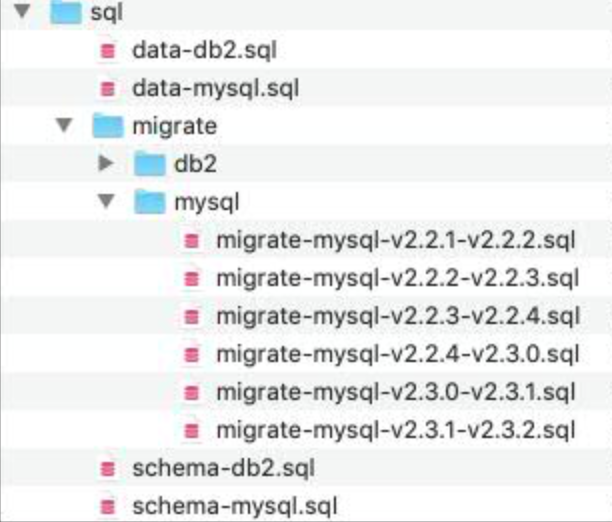
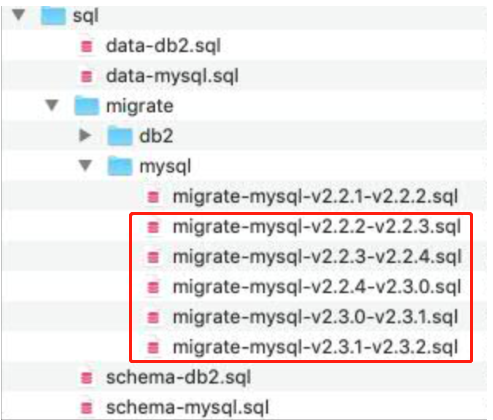
Update migrate docs

diff --git a/_posts/2020-09-29-references-migrate-ida-from-v2.7.x-to-v21.0.0.md b/_posts/2020-09-29-references-migrate-ida-from-v2.7.x-to-v21.0.0.md
@@ -12,9 +12,9 @@ order: 10
 
 **Important:** Please backup your database before migration!
 
-## 1.1 Edit [IDA_HOME]/conf/**ida.properties** under **conf** folder. 
+### 1.1 Edit [IDA_HOME]/conf/**ida.properties** under **conf** folder. 
 
-This properties file contains three main sections. Please set spring.datasource.driver-class-name, spring.datasource.url, spring.datasource.username, spring.datasource.password field. If you want to encode your database password. Please refer to [Repacking IDA Application][1].
+This properties file contains three main sections. Please set **spring.datasource.driver-class-name**, **spring.datasource.url**, **spring.datasource.username**, **spring.datasource.password** field. If you want to encode your database password. Please refer to [Repacking IDA Application][1].
 
 **Important:** Please comment spring.datasource.jndi-name if you do not use a JNDI datasource.
 
@@ -34,112 +34,121 @@ This properties file contains three main sections. Please set spring.datasource.
 
 *  **jasypt.encryptor.password** : Jasypt secret key for Encrypt datasource passwords
 
-## 1.2 Repacking ida-web.war with configuration
+### 1.2 Repacking ida-web.war with configuration
 
-The purpose of repackage  is to update your application-product.yaml in the war to make sure it loads the recent configuration.Once all the properties in [IDA_HOME]/conf/ida.properties file have been updated, you can then re-package the [IDA_HOME]/build/**ida-web.war** file.  
+The purpose of repackage is to update your application-product.yaml in the war to make sure it loads the recent configuration.Once all the properties in [IDA_HOME]/conf/ida.properties file have been updated, you can then re-package the [IDA_HOME]/build/**ida-web.war** file. 
 
-Before running the [IDA_HOME]/**package.bat** or [IDA_HOME]/**package.sh** you will need to set the JAVA_HOME environment variable and make ensure that [JAVA_HOME]/bin is included in the variable.  Once the environment variable is set , you can then execute the package shell command to repackage the **ida-web.war**.
+Before running the [IDA_HOME]/**package.bat** or [IDA_HOME]/**package.sh** you will need to set the JAVA_HOME environment variable and make ensure that [JAVA_HOME]/bin is included in the variable. Once the environment variable is set , you can then execute the package shell command to repackage the **ida-web.war**.
 
-## 1.3 Stop your running IDA Application
+### 1.3 Stop your running IDA Application
 
 For example:
 ```
 ./server stop SERVER_NAME
 ```
 
-## 1.4 Execute migrate-\<DATABASE_TYPE\>-v2.7.x-v21.0.0.sql
+### 1.4 Execute migrate-\<DATABASE_TYPE\>-v2.7.x-v21.0.0.sql
 **Notes:** Please execute ```call sysproc.admin_cmd('reorg table <TABLE_NAME>');``` after altering a table in DB2 database.
 
-## 1.5 Add ```<httpSession cookieSameSite="None"/>``` to server.xml
+### 1.5 Add ```<httpSession cookieSameSite="None"/>``` to server.xml
 
-## 1.6 Replace ida-web.war and Restart your server.
+### 1.6 Replace ida-web.war and Restart your server.
 **Notes:** Please refer the doc [references-migrating-and-updating-your-application][3].
 
-## 1.7 Migrate the values form your old conf/ida.properties to 'Settings' page. The below table lists all the filed need to be migrated:
+### 1.7 Migrate the values from your old conf/ida.properties to 'Settings' page. The below table lists all the filed need to be migrated:
 
-![][General]
+- General Settings: 
+  
+    ![][General]
 
-Settings -> General | conf/ida.properties
---- | ---
-General -> Trace Level | loggerLevel 
-General -> Enable LDAP Authentication | ldap.enable 
-General -> Url | ldap.url 
-General -> User Name | ldap.username 
-General -> Password | ldap.password 
-General -> Base DN | ldap.basedn 
-General -> User Filter | ldap.user.filter 
-General -> Default Role | ldap.default.role 
-General -> User Name Case Insensitive | ldap.username.case-insensitive 
+    Settings -> General | conf/ida.properties
+    --- | ---
+    General -> Trace Level | loggerLevel 
+    General -> Enable LDAP Authentication | ldap.enable 
+    General -> Url | ldap.url 
+    General -> User Name | ldap.username 
+    General -> Password | ldap.password 
+    General -> Base DN | ldap.basedn 
+    General -> User Filter | ldap.user.filter 
+    General -> Default Role | ldap.default.role 
+    General -> User Name Case Insensitive | ldap.username.case-insensitive 
 
-![][Test]
+- Testing Settings: 
+  
+    ![][Test]
 
-Settings -> Test | conf/ida.properties
---- | ---
-Test -> Connection Timeout(seconds) | engine-config.connection-timeout
-Test -> Wait Timeout(seconds) | engine-config.wait-timeout 
-Test -> Default Retry Times | engine-config.default-retry-times 
-Test -> Default Retry Interval(seconds) | engine-config.default-retry-interval
-Test -> Data Path | engine-config.data-dir
-Test -> Enable Test Case History | enable_case_history
-Test -> Max Number of Test Case History | max_case_history
-Test -> Threshold of New Test Case | default_total_case
+    Settings -> Test | conf/ida.properties
+    --- | ---
+    Test -> Connection Timeout(seconds) | engine-config.connection-timeout
+    Test -> Wait Timeout(seconds) | engine-config.wait-timeout 
+    Test -> Default Retry Times | engine-config.default-retry-times 
+    Test -> Default Retry Interval(seconds) | engine-config.default-retry-interval
+    Test -> Data Path | engine-config.data-dir
+    Test -> Enable Test Case History | enable_case_history
+    Test -> Max Number of Test Case History | max_case_history
+    Test -> Threshold of New Test Case | default_total_case
 
-![][Checkstyle]
+- Checkstyle Settings: 
 
-Settings -> Checkstyle | conf/ida.properties
---- | ---
-Checkstyle -> Engine | checkstyle.engine
-Checkstyle -> Decision Server Username | resUser
-Checkstyle -> Decision Server Password | resPassword
-Checkstyle -> Decision Server URL | resUrl
-Checkstyle -> Decision Server Port | resPort
-Checkstyle -> Rest Url | restUrl
+    ![][Checkstyle]
 
-![][Pipeline]
+    Settings -> Checkstyle | conf/ida.properties
+    --- | ---
+    Checkstyle -> Engine | checkstyle.engine
+    Checkstyle -> Decision Server Username | resUser
+    Checkstyle -> Decision Server Password | resPassword
+    Checkstyle -> Decision Server URL | resUrl
+    Checkstyle -> Decision Server Port | resPort
+    Checkstyle -> Rest Url | restUrl
 
-Settings -> Pipeline | conf/ida.properties
---- | ---
-Pipeline -> Installation Package Remote Dir | engine-config.installation-package-remote-dir
-Pipeline -> Host | smtp.host
-Pipeline -> Port | smtp.port
-Pipeline -> Sender Email | email.from
-Pipeline -> Deployment Timeout(seconds) | deployment.timeout
-Pipeline -> Deployment Check Interval(seconds) | deployment.interval
-Pipeline -> Interval for Trigger by New Snapshot(seconds) | pipeline.snapshot.trigger.interval
+- Pipeline Settings: 
+
+    ![][Pipeline]
+
+    Settings -> Pipeline | conf/ida.properties
+    --- | ---
+    Pipeline -> Installation Package Remote Dir | engine-config.installation-package-remote-dir
+    Pipeline -> Host | smtp.host
+    Pipeline -> Port | smtp.port
+    Pipeline -> Sender Email | email.from
+    Pipeline -> Deployment Timeout(seconds) | deployment.timeout
+    Pipeline -> Deployment Check Interval(seconds) | deployment.interval
+    Pipeline -> Interval for Trigger by New Snapshot(seconds) | pipeline.snapshot.trigger.interval
 
 
-## 1.7 Restart IDA server to make your changes effective.
+### 1.7 Restart IDA server
+
+Restart IDA server to make your changes effective.
+
+
 
 # 2. Migrating IDA with a JNDI datasource connection
 
 **Important:** Please backup your database before migration!
 
-## 2.1 Please refer to section 1.1 to edit [IDA_HOME]/conf/**ida.properties** under **conf** folder.
+### 2.1 Please refer to section 1.1 to edit [IDA_HOME]/conf/**ida.properties** under **conf** folder.
 
 **Notes:** Please comment spring.datasource.driver-class-name, spring.datasource.url, spring.datasource.username, spring.datasource.password and jasypt.encryptor.password fileds.
 
-## 2.2 Please refer to 1.2 to repack ida-web.war
+### 2.2 Please refer to 1.2 to repack ida-web.war
 **Notes:** Please refer the doc [references-migrating-and-updating-your-application][3].
 
-## 2.3 Please refer to 1.3 to stop your running IDA Application
+### 2.3 Please refer to 1.3 to stop your running IDA Application
 
-## 2.4 Please refer to the doc [Installing IDA Application][2] to config the server.xml file.
+### 2.4 Please refer to the doc [Installing IDA Application][2] to config the server.xml file.
 
-## 2.5 Please copy you database driver to the folder according the library field configuration in server.xml.
+### 2.5 Please copy you database driver to the folder according the library field configuration in server.xml.
 
-## 2.6 Execute migrate-\<DATABASE_TYPE\>-v2.7.x-v21.0.0.sql
+### 2.6 Execute migrate-\<DATABASE_TYPE\>-v2.7.x-v21.0.0.sql
 **Notes:** Please execute ```call sysproc.admin_cmd('reorg table <TABLE_NAME>');``` after altering a table in DB2 database.
 
-## 2.7 Replace ida-web.war and Restart your liberty server.
+### 2.7 Replace ida-web.war and Restart your liberty server.
 
-## 2.8 Add ```<httpSession cookieSameSite="None"/>``` to server.xml
+### 2.8 Add ```<httpSession cookieSameSite="None"/>``` to server.xml
 
-## 2.9 Please refer to 1.6 to migrate conf/ida.properties old values to 'Settings' page
+### 2.9 Please refer to 1.6 to migrate conf/ida.properties old values to 'Settings' page
 
-## 3.0 Restart IDA server to make your changes effective.
-
-
-
+### 3.0 Restart IDA server to make your changes effective.
 
 
 [1]: ../installation/installation-ida-repacking.html

diff --git a/_posts/2018-08-05-references-migrating and updating your application.md b/_posts/2018-08-05-references-migrating and updating your application.md
@@ -12,7 +12,7 @@ order: 5
 
 To prepare your migration, take the following steps:  
 
-1. Download the lastested IDA version.
+1. Download the lastest IDA version. The migration scripts come from the installation file. The file name is ida-web-<version>.zip.
 2. Stop the libery server.  
 3. Stop the mysql server.  
 4. Backup the mysql db.    
@@ -21,29 +21,39 @@ To prepare your migration, take the following steps:
 
 To update DB, take the following steps:
 
+1. Get the current version of IDA from the ReleaseNotes in the installation file.
+   
+   ![][ida_version]{:height="40%" width="40%"}   
+
+2. Determine which migration scripts need to be run. There are two version numbers in the file name of each sql file. The first version represents the current IDA database version, and the latter one represents the IDA database version to be migrated to.
+For example, if the sql name is migrate-mysql-v2.2.2-v2.2.3.sql, it means that this file will update IDA database version from v2.2.2 to v2.2.3. 
+So if the pervious version is v2.2.2, and the new IDA installation file version is v2.3.2, then you need to execute these five sql files one by one. You can find migrate-mysql*.sql in the sql\migrate\mysql folder.
+   
+   * migrate-mysql-v2.2.2-v2.2.3.sql
+   * migrate-mysql-v2.2.3-v2.2.4.sql
+   * migrate-mysql-v2.2.4-v2.3.0.sql
+   * migrate-mysql-v2.3.0-v2.3.1.sql
+   * migrate-mysql-v2.3.1-v2.3.2.sql
+   
+   ![][mysqlmigration]{:height="40%" width="40%"}   
+
+
 1. Start the mysql Server.  
-2. You can find migrate-mysql*.sql in the sql\migrate\mysql folder. Copy the corresponding version upgrade sql into clipboard.     
-For example: If your previous version is v2.2.2.You need to pick below sql script to run one by one.Make sure the migrate sql version name is bigger than your previous version.
-* migrate-mysql-v2.2.2-v2.2.3.sql
-* migrate-mysql-v2.2.3-v2.2.4.sql
-* migrate-mysql-v2.3.0-v2.3.1.sql
-* migrate-mysql-v2.3.1-v2.3.2.sql
+   
+2. Execute the sql scripts mentioned in the step 2 in order.
 
-
-![][mysqlmigration]   
-
-&ensp;&ensp;&ensp;3.Connect to the MySQL server and use IDA database. Execute the script for each consecutive version.
+3. Connect to the MySQL server and use IDA database. Execute the script for each consecutive version.
 ```
-mysql> use IDA ;   
+mysql> use IDA;
 mysql> paste your sql here   
-```    
+```
 
 ### Step 2: Update IDA.war   
 
 For IDA version migration,you need to update IDA.war, take the following steps:
 
 1. Find  **ida.properties** under conf folder in the previous version.
-2. Reconfigure  **ida.properties** file in the new version.Make sure you have copy the every propertie value from old version to new version. After you finish the properties value changes,you need to double check these properties values are set in new version files.   
+2. Reconfigure  **ida.properties** file in the new version.Make sure you have copy the every propertie value from old version to new version. After you finish the properties value changes, you need to double check these properties values are set in new version files.   
 3. Copy database jar to **lib** folder.
     
      Database              | jar       
@@ -58,7 +68,7 @@ For IDA version migration,you need to update IDA.war, take the following steps:
 7. Start the Liberty Server.  
 
  **Notes**     
- Please not overwrite ida.properties from previous version, since we might add new some new property name  in some versions.  
+ Please not overwrite ida.properties from previous version, since we might add new some new property name in some versions.  
  You can check the application-prod.yml in ida-web.war to make sure these setting are applied.
  
  
@@ -70,19 +80,19 @@ To update IDA BAW Toolkit, take the following steps:
 2. Open your process app by web process designer from process center.  
 3. Upgrade the toolkit.
 
-![][toolkit-upgrade-1]
+   ![][toolkit-upgrade-1]
 
-&ensp;&ensp;&ensp;4.Delete the old **IDA Utility**.
+4. Delete the old **IDA Utility**.
 
-![][toolkit-upgrade-2] 
+   ![][toolkit-upgrade-2] 
 
-&ensp;&ensp;&ensp;5.Click **Services** below **IDA Toolkit(8.6.0 v1.4)**. Right click the **IDA Utility** service flow and copy the item to your process app.
+5. Click **Services** below **IDA Toolkit(8.6.0 v1.4)**. Right click the **IDA Utility** service flow and copy the item to your process app.
 
-![][toolkit-upgrade-3]
+   ![][toolkit-upgrade-3]
 
-![][toolkit-upgrade-4]
+   ![][toolkit-upgrade-4]
    
-
+[ida_version]: ../images/install/ida_version.png
 [yamlmigration]: ../images/install/productionyaml.png
 [mysqlmigration]: ../images/install/mysqlmigration.png
 [teampermission]: ../images/install/teampermission.png
